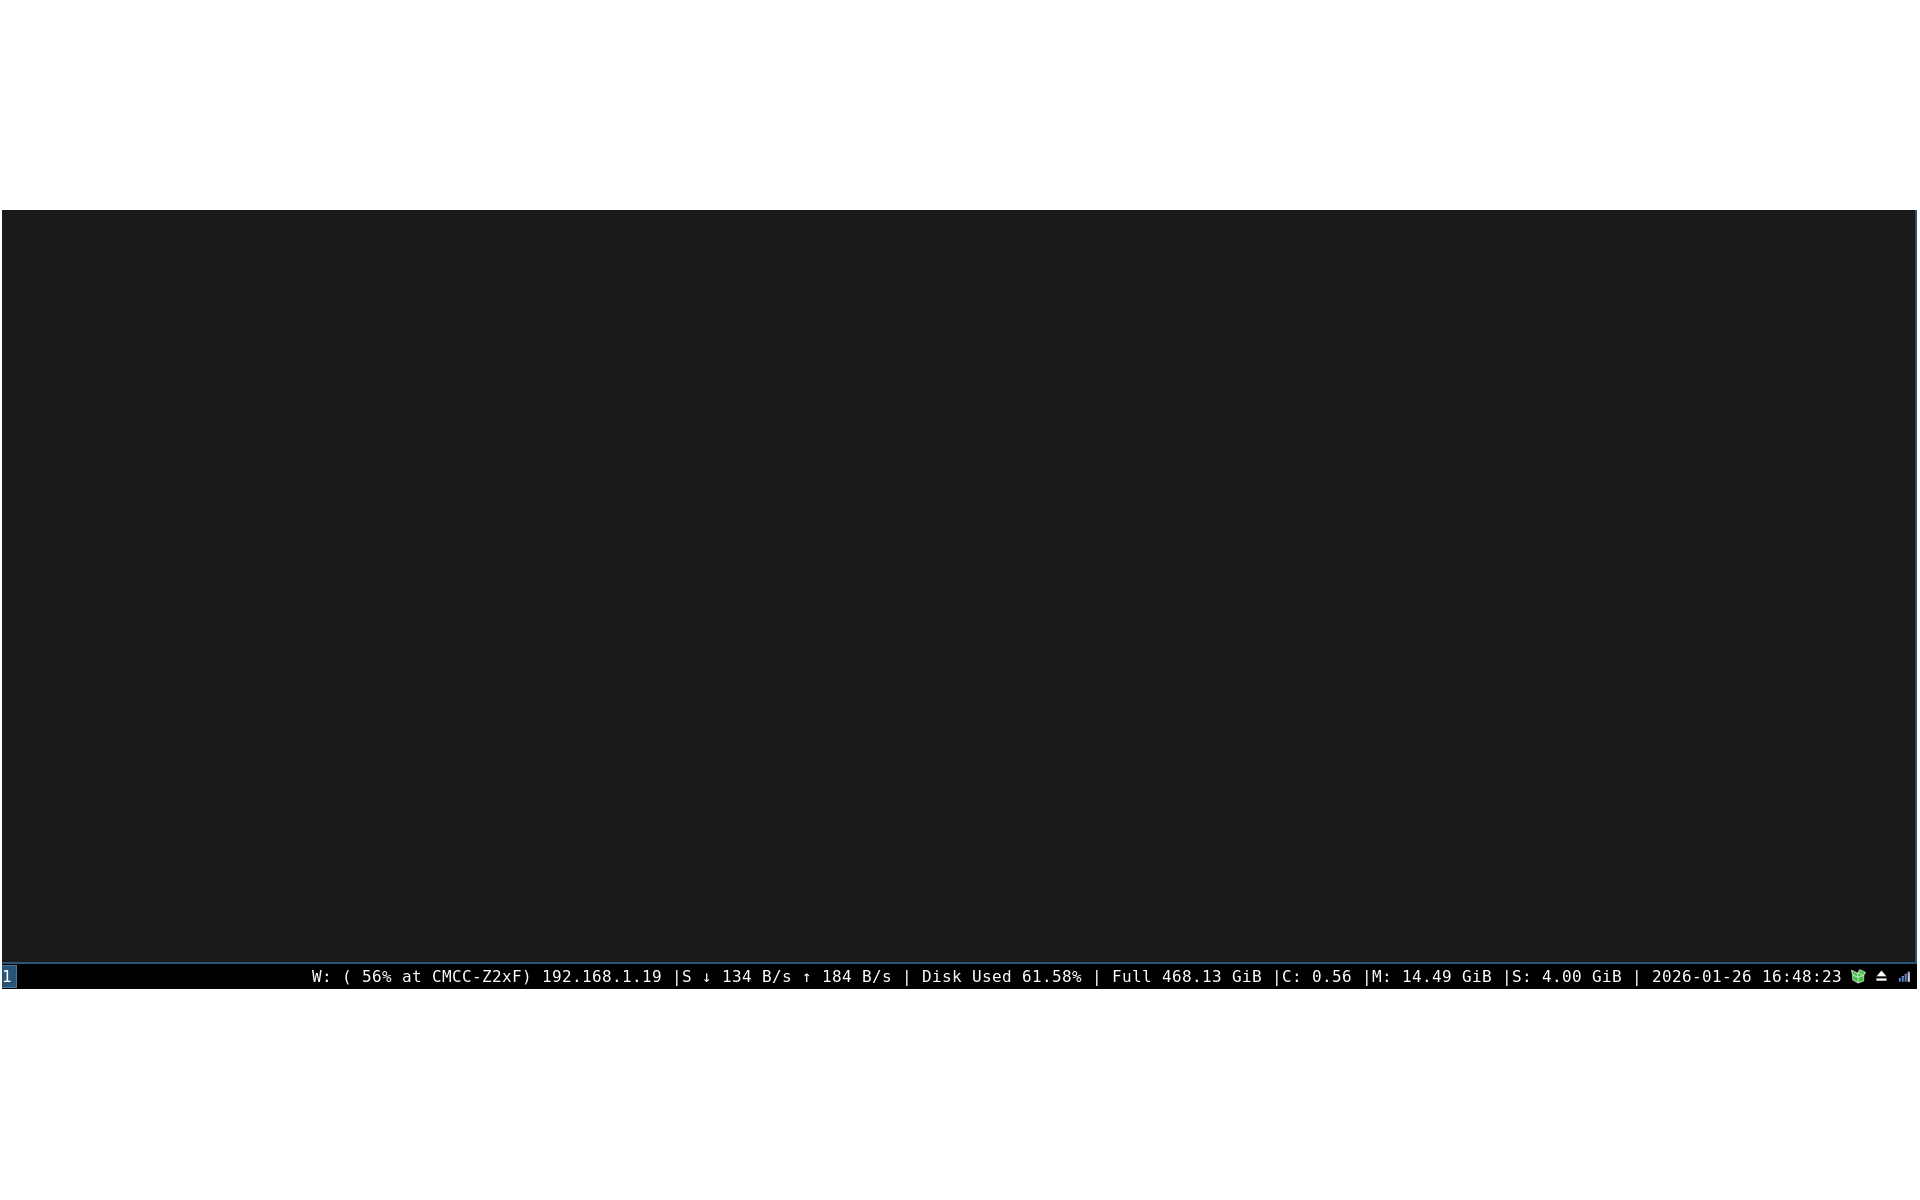
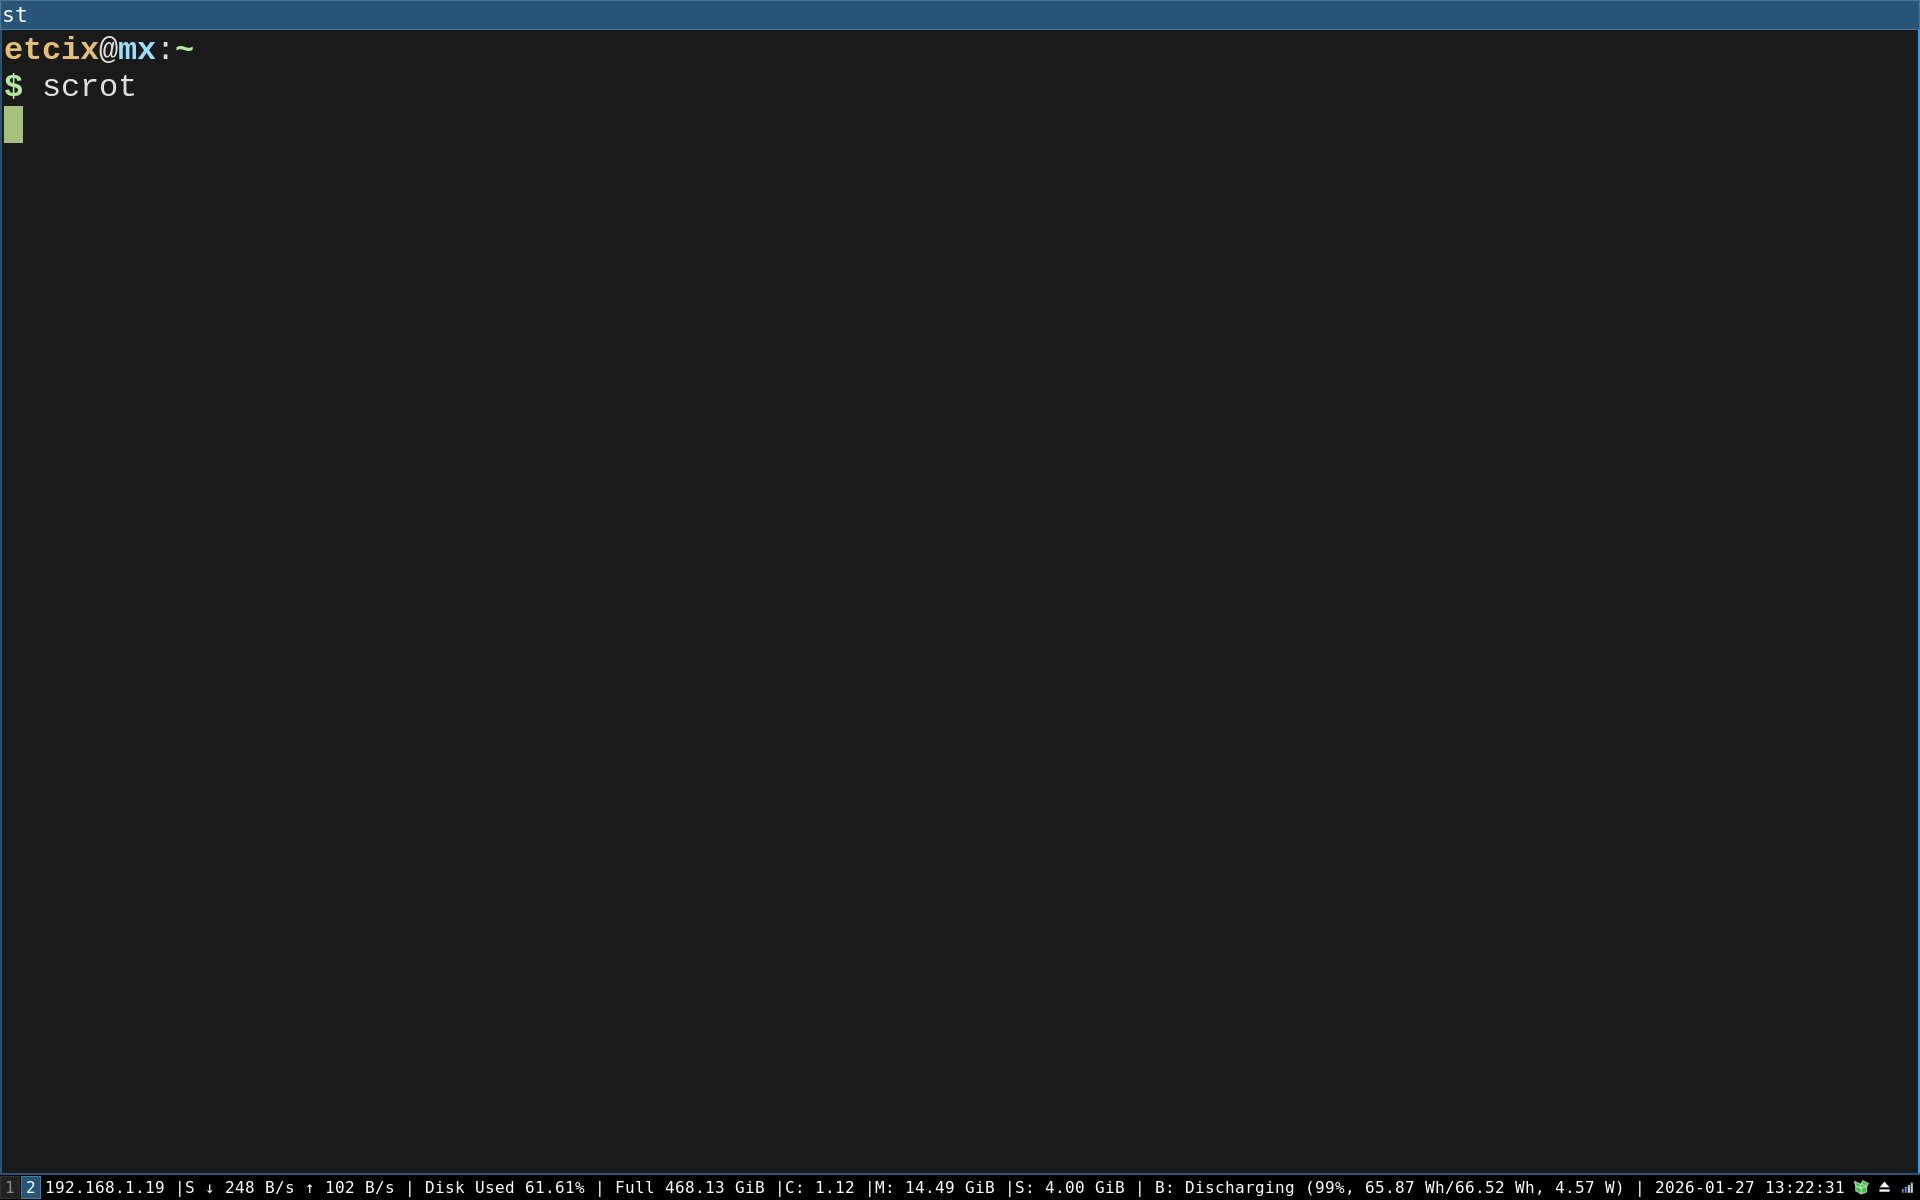
update readme

diff --git a/external/readme.md b/external/readme.md
@@ -246,3 +246,103 @@ apt-cache depends i3 | grep -i i3status
 4. **兜底**：若修改出错，可通过 `sudo apt install --reinstall i3 i3-wm` 恢复官方包。
 
 这样你就彻底摆脱了 i3wm 对 i3status 的依赖，且全程在本地完成，无需复杂的仓库配置！
+
+You want to add a specific package to APT's ignore list so that it won't be automatically upgraded when you run system update commands like `apt upgrade`. Here are two reliable methods to achieve this, with step-by-step instructions:
+
+---
+
+## Method 1: Use `apt-mark hold` (Simplest & Most Common)
+
+This is the easiest way to lock a package from upgrades, and it’s the recommended approach for most use cases.
+
+### Step 1: Basic commands
+
+1. **Lock the package** (replace `<package-name>` with the actual package name, e.g., `nginx`):
+
+   ```bash
+   sudo apt-mark hold <package-name>
+   ```
+
+   Example (lock `nginx`):
+
+   ```bash
+   sudo apt-mark hold nginx
+   ```
+
+   Output (success): `nginx set on hold.`
+
+2. **Check which packages are locked** (verify the package is in the hold list):
+
+   ```bash
+   apt-mark showhold
+   ```
+
+   Output (if `nginx` is locked): `nginx`
+
+3. **Unlock the package** (if you want to allow upgrades later):
+   ```bash
+   sudo apt-mark unhold <package-name>
+   ```
+   Example:
+   ```bash
+   sudo apt-mark unhold nginx
+   ```
+   Output: `nginx cancelled hold.`
+
+## Method 2: Use `/etc/apt/preferences` (More Flexible)
+
+This method uses APT’s preference system to set a low priority for the package, preventing upgrades. It’s useful if you need advanced rules (e.g., lock multiple packages or specific versions).
+
+### Step 1: Create/Edit the preferences file
+
+1. Open the file with a text editor (e.g., nano):
+
+   ```bash
+   sudo nano /etc/apt/preferences
+   ```
+
+2. Add the following content (replace `<package-name>` with your package):
+
+   ```
+   # Lock <package-name> from upgrades
+   Package: <package-name>
+   Pin: release *
+   Pin-Priority: -1
+   ```
+
+   - `Package`: Specifies the target package (use `*` to lock all packages, but this is not recommended).
+   - `Pin: release *`: Matches all repository releases.
+   - `Pin-Priority: -1`: Tells APT to never upgrade this package (priority < 0 means "reject").
+
+3. Save and exit (for nano: press `Ctrl+O`, then `Enter`, then `Ctrl+X`).
+
+### Step 2: Verify the configuration
+
+Run a **simulated upgrade** to confirm the package won’t be upgraded:
+
+```bash
+sudo apt update && sudo apt upgrade -s
+```
+
+Look for lines like:
+
+```
+The following packages have been kept back:
+  <package-name>
+```
+
+This confirms the package is ignored during upgrades.
+
+---
+
+### How to Verify the Lock Works
+
+Run the simulated upgrade command above (`apt upgrade -s`). If the package is listed under "kept back", the lock is effective.
+
+---
+
+### Summary
+
+1. **Simplest method**: Use `sudo apt-mark hold <package-name>` to lock a package, and `sudo apt-mark unhold <package-name>` to unlock it.
+2. **Advanced method**: Edit `/etc/apt/preferences` and set `Pin-Priority: -1` for the target package to block upgrades.
+3. **Verification**: Always test with `apt upgrade -s` (simulated upgrade) to confirm the package is "kept back".

diff --git a/readme.md b/readme.md
@@ -7,17 +7,17 @@ go build -o i3statusgo cmd/i3statusgo.go
 
 # will install to your $GOPATH/bin, usually at $HOME/go/bin, should add $HOME/go/bin to your $PATH
 go install cmd/i3statusgo.go
-
-# or
-go install -x -v -a -race -msan -asan -work gitee.com/EEPPEE_admin/i3statusgo@latest
 ```
 
 # screenshot
 
-- C stand for CPU, M stand for Memory, S stand for Swap
-  Full stand for Full Disk Total, Disk Used stand for Disk Used Percentage
-  W stand for Wifi name, S stand for net speed(I guess, I don't know how to show net speed)
+- `C stand for CPU, M stand for Memory, S stand for Swap,
+Full stand for Full Disk Total, Disk Used stand for Disk Used Percentage,
+W stand for Wifi name, S stand for net speed(I guess, I don't know how to show net speed),
+B stand for Battery Percentage`
   ![screenshot](./screenshot/preview.png)
+- ignore `apt upgrade for i3-wm package`
+  ![](./screenshot/apt-ignore-upgrade-i3wm.png)
 
 # setup for i3 config in `~/.config/i3/config`
 
